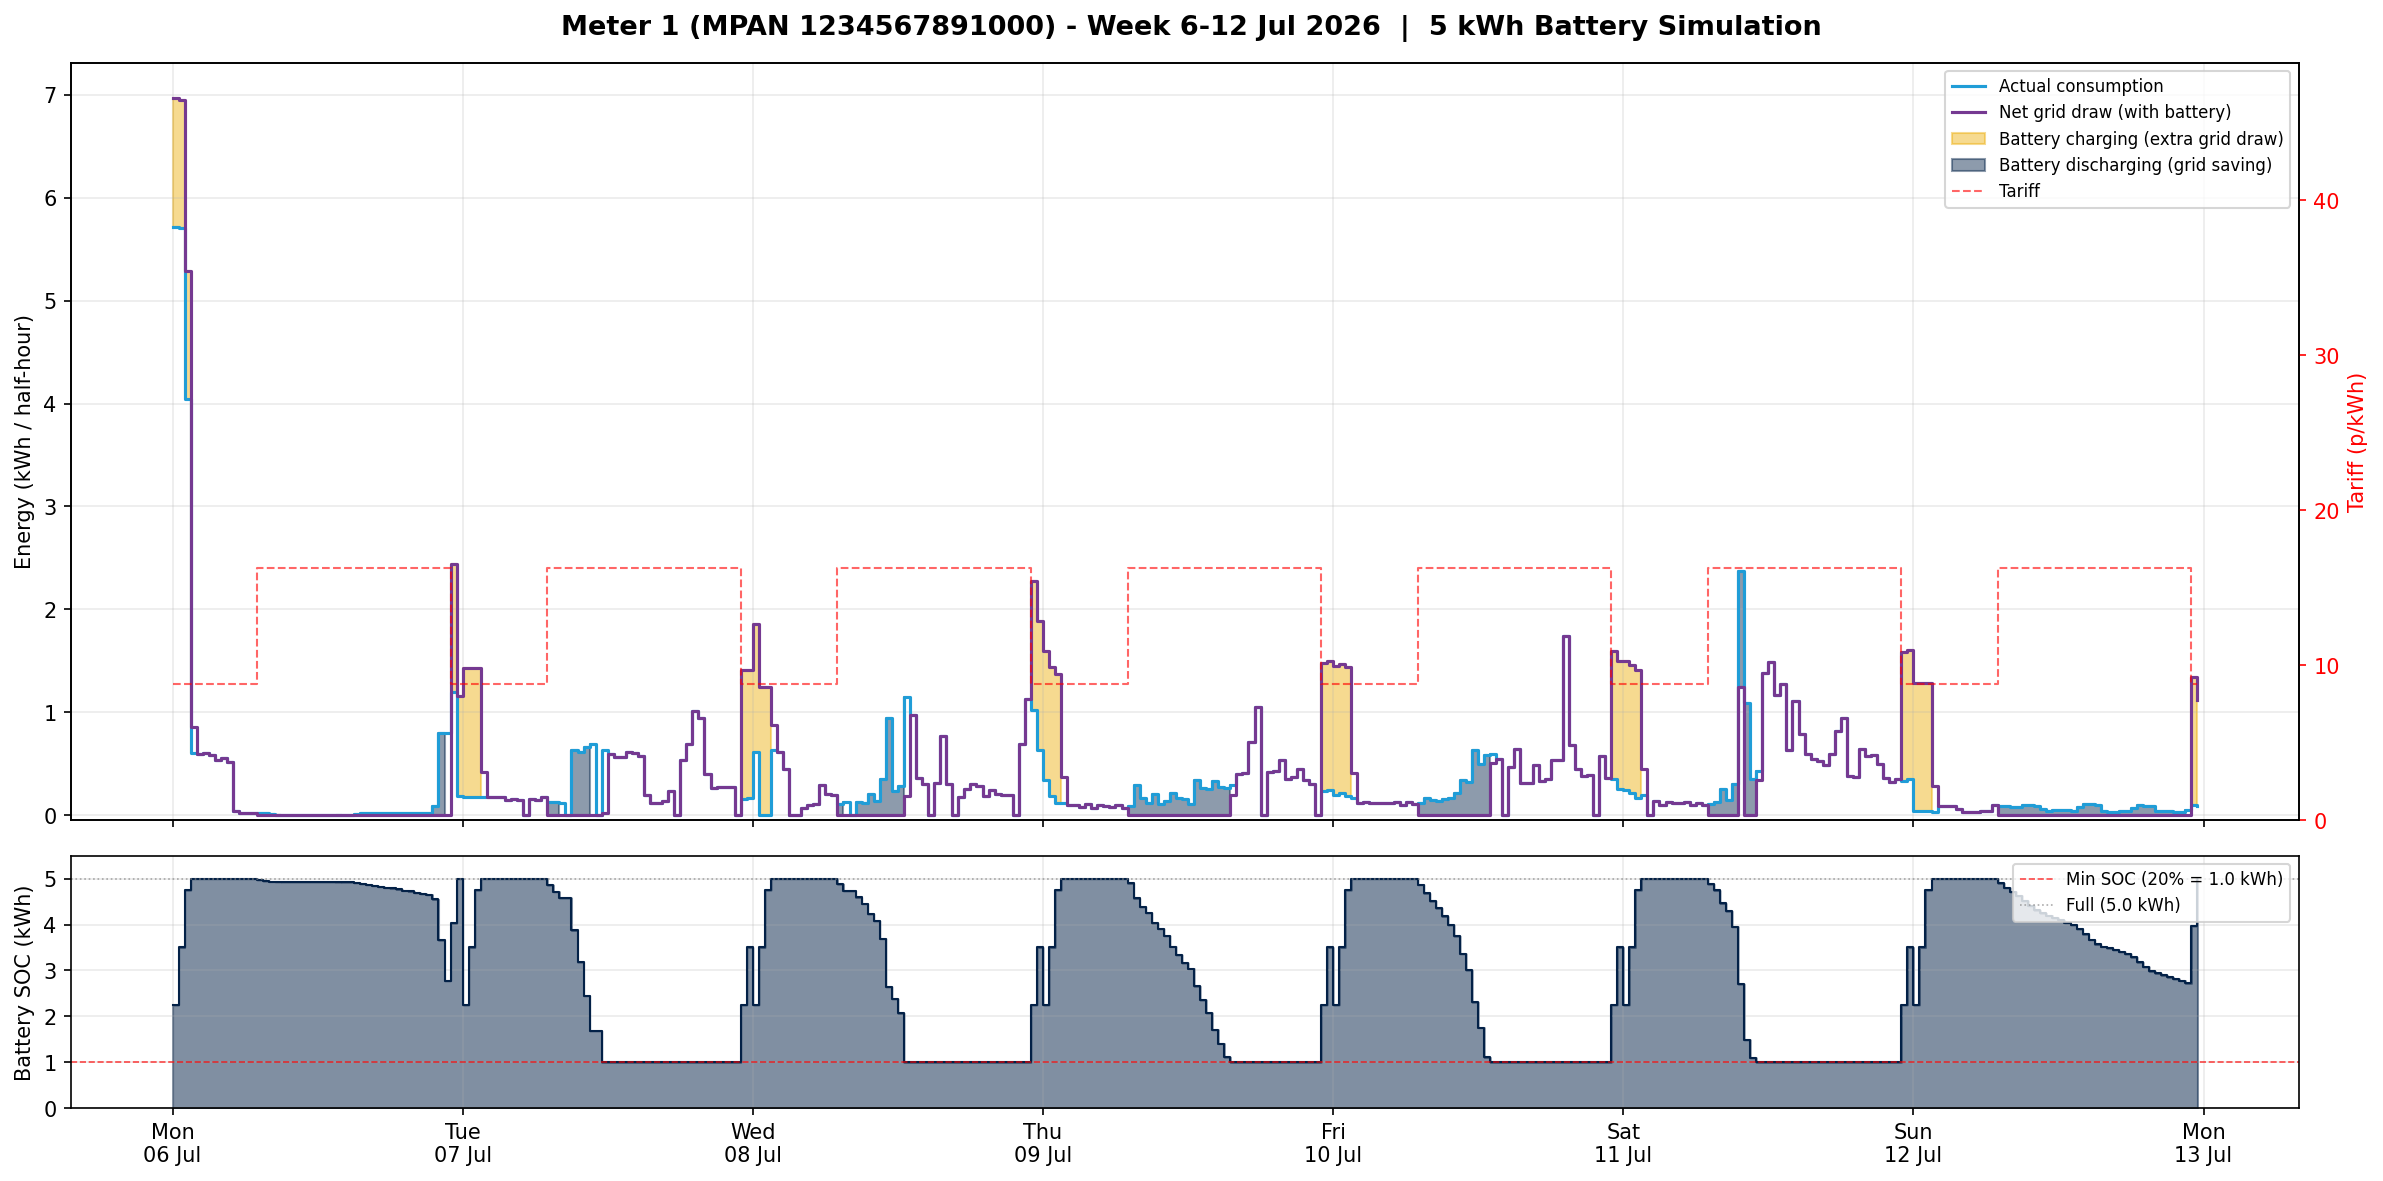
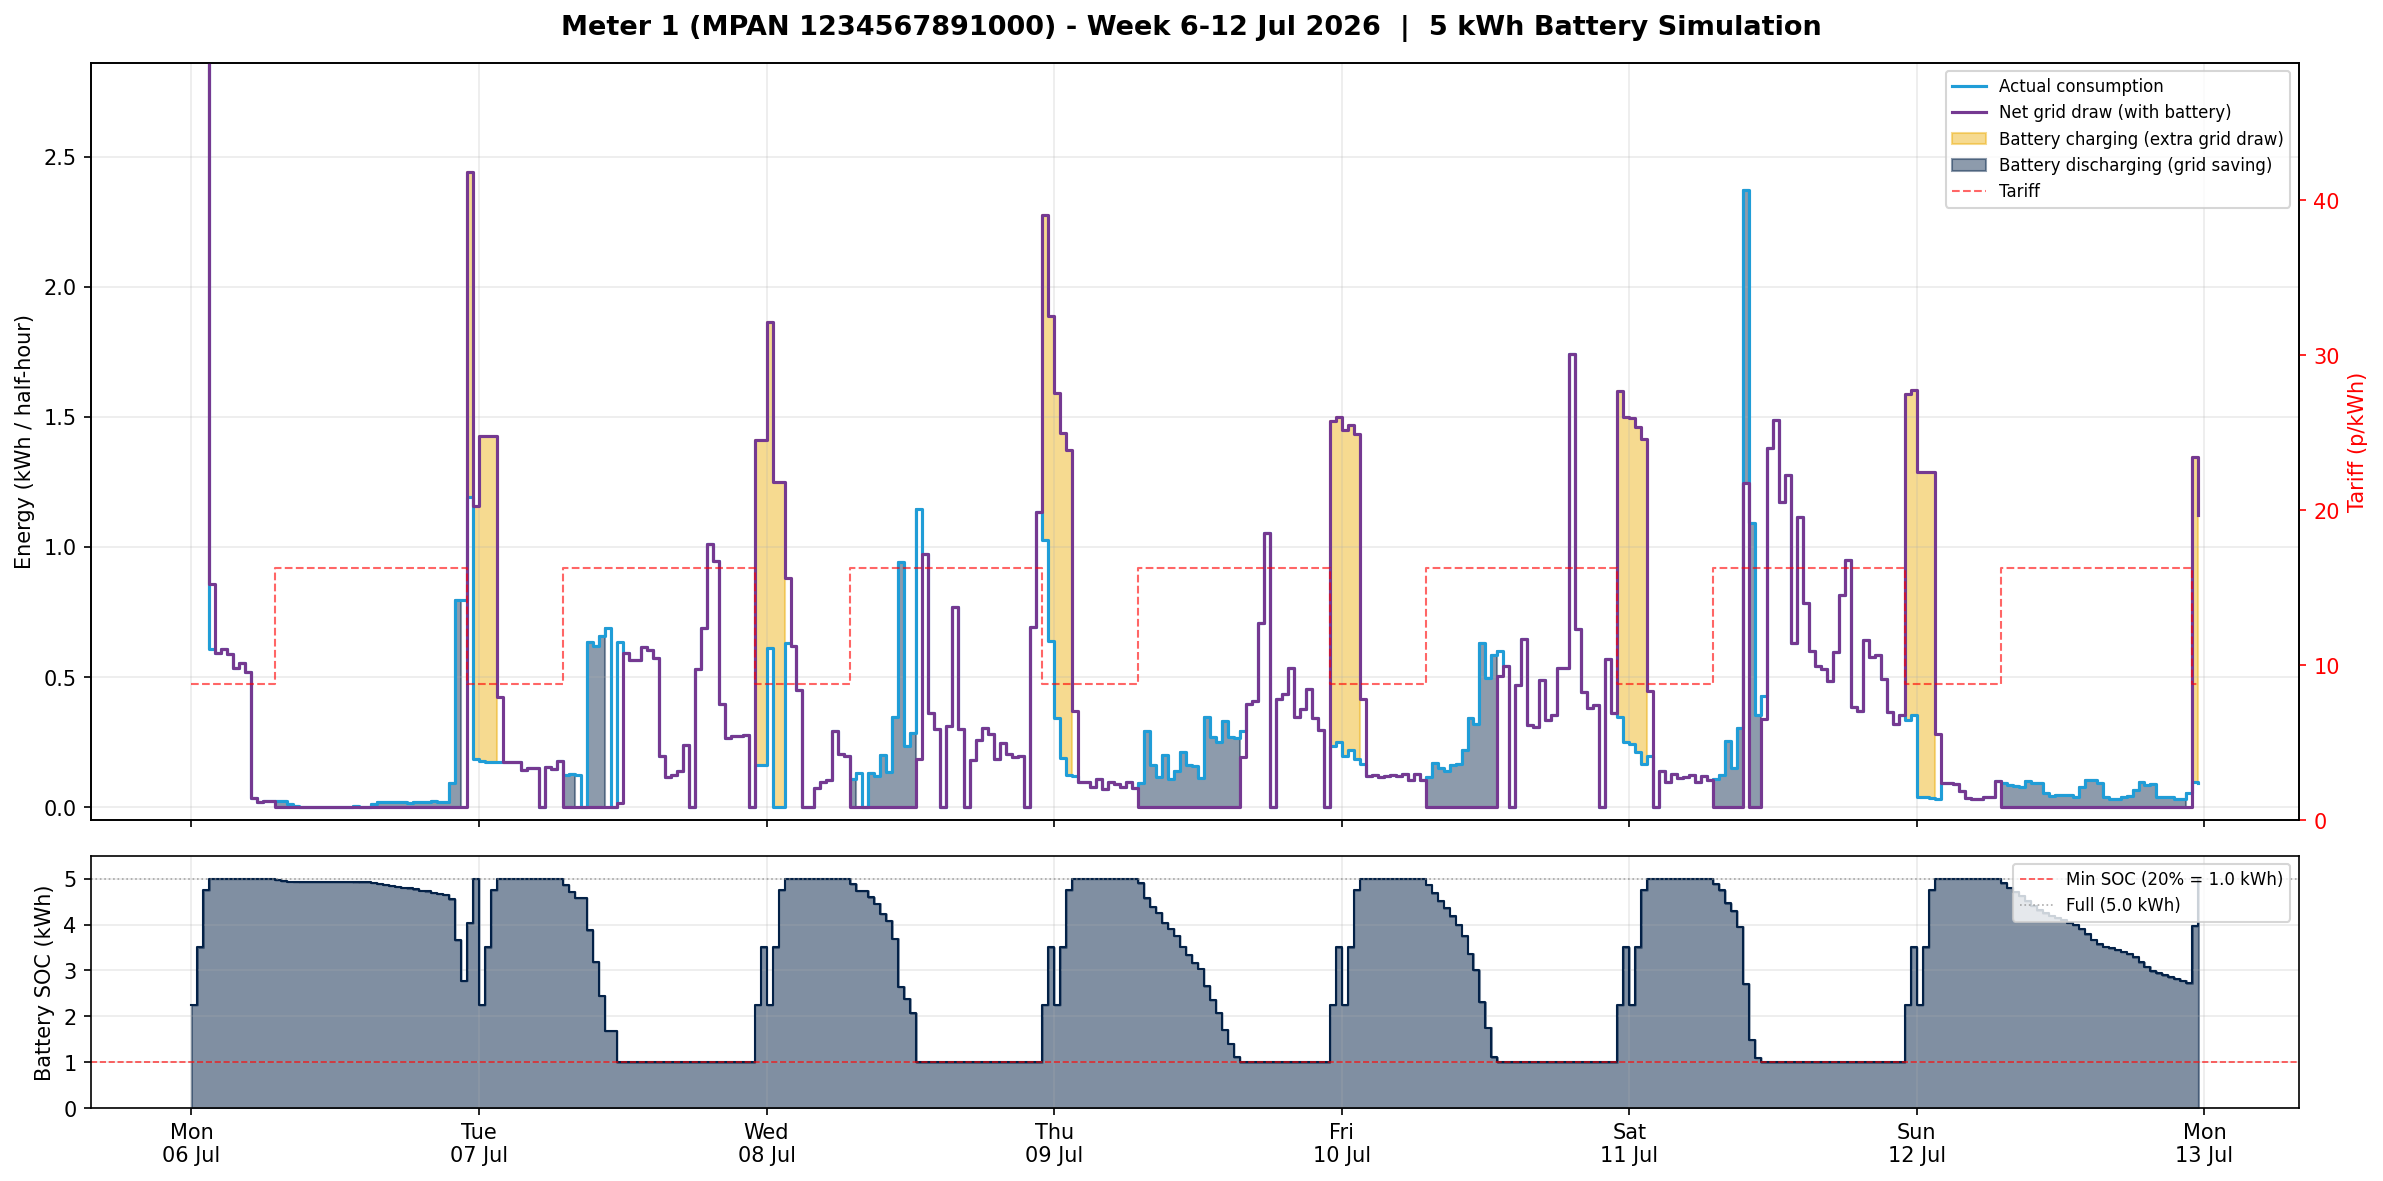
fix: cap y-axis at 99th percentile to remove spike distortion

diff --git a/battery_week_plot.py b/battery_week_plot.py
@@ -120,7 +120,8 @@ def main():
     ax1_r.set_ylim(0, tariff.max() * 3)
 
     ax1.set_ylabel("Energy (kWh / half-hour)", fontsize=10)
-    ax1.set_ylim(bottom=-0.05)
+    y_max = np.percentile(net_grid, 99) * 1.2
+    ax1.set_ylim(bottom=-0.05, top=y_max)
     ax1.grid(True, alpha=0.25)
     lines1, labels1 = ax1.get_legend_handles_labels()
     lines2, labels2 = ax1_r.get_legend_handles_labels()